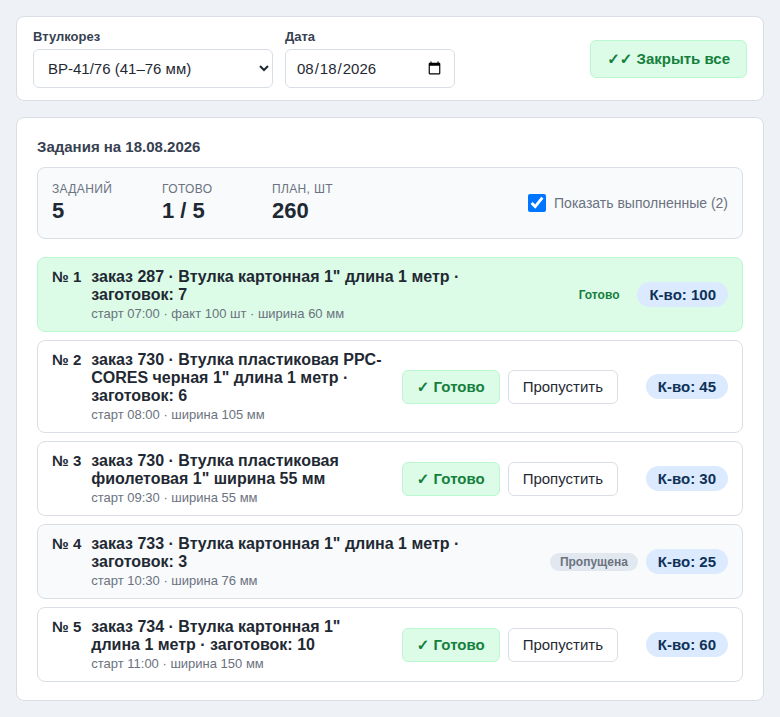
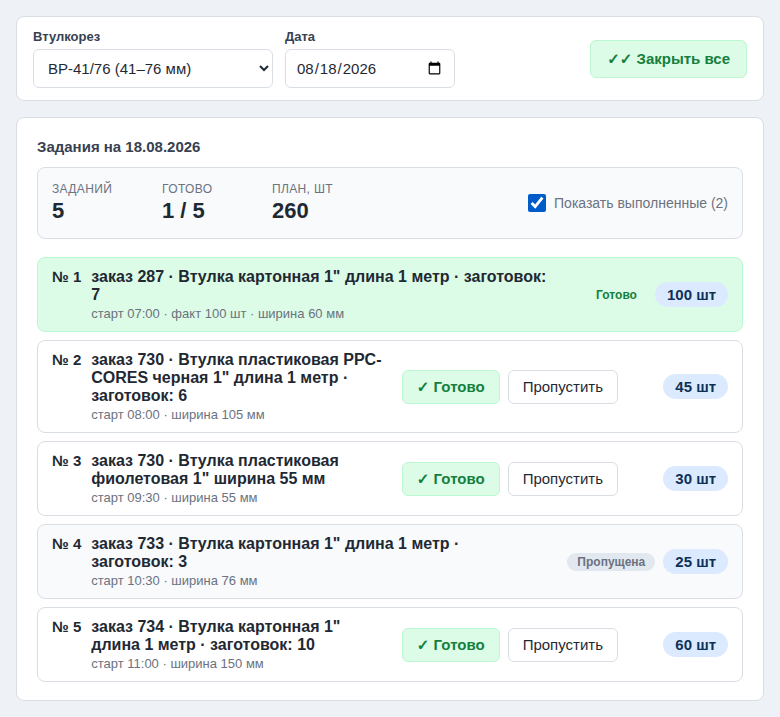
fix(atex-sc #4786): количество втулок на карточке — просто «110 шт», без подписи (#4792)
Продолжение #4788 (влит). По замечанию заказчика подпись «К-во:» с правого бейджа убрана —
там остаётся одно число со штуками: «110 шт». Подпись занимала место в узкой правой колонке,
а число на этом месте втулкорез читает и так.

Остальное не меняется: в главной строке «заготовок: N» (⌈план × ширина рулона × 1.1 / 1000⌉),
у закрытого задания бейдж «Готово»/«Пропущена» стои́т перед количеством, у готовой втулки
заготовок в строке нет.

Тесты проверяют разметку поведением: текст бейджа «900 шт», порядок пары («Пропущена»,
«900 шт»). 113 проверок файла, гейт репозитория 698/0. Скриншот документации переснят.

TEXT-ASSERT-OK: три проверки стилей смотрят текст `sleeve-cutter.css` — правило исполняет
браузер, которого в гейте нет (объявлено при заведении, #4788).

Vecmory-Session: 4435d65b-cab1-406c-abf9-abf6aa266e88

diff --git a/download/atex/js/sleeve-cutter.js b/download/atex/js/sleeve-cutter.js
@@ -785,9 +785,10 @@
         }
         card.appendChild(actions);
         // #4786 п.2/п.3: у ЖИВОГО задания бейджа статуса больше нет — состояние и так видно
-        // по кнопкам «Готово»/«Пропустить». Справа стои́т ПЛАНОВОЕ количество втулок
-        // («К-во»), а у закрытого задания перед ним — бейдж «Готово»/«Пропущена»: кнопок
-        // там нет, и иначе непонятно, чем оно кончилось.
+        // по кнопкам «Готово»/«Пропустить». Справа стои́т ПЛАНОВОЕ количество втулок — одним
+        // числом со «шт», без подписи: подпись занимала место, а число на этом месте
+        // втулкорез читает и так. У закрытого задания перед ним — бейдж «Готово»/«Пропущена»:
+        // кнопок там нет, и иначе непонятно, чем оно кончилось.
         var badges = el('div', { class: 'atex-sc-card-badges' });
         if (terminal) {
             badges.appendChild(el('span', {
@@ -801,7 +802,7 @@
                 class: 'atex-sc-badge atex-sc-badge-qty',
                 title: 'Запланировано втулок: ' + plan + ' шт'
                     + (sticks != null ? ' (метровых заготовок под них: ' + sticks + ')' : ''),
-                text: 'К-во: ' + plan
+                text: plan + ' шт'
             }));
         }
         if (badges.childNodes.length) card.appendChild(badges);

diff --git a/docs/atex_workplaces.md b/docs/atex_workplaces.md
@@ -652,21 +652,21 @@ API-операции и критерии приёмки.
   задания — две строки: сверху крупно **что режем** («заказ 730 · Втулка пластиковая
   PPC-CORES черная 1" длина 1 метр · заготовок: 6»), под ней мелким служебное («старт 08:00 ·
   факт · ширина рулона»); посередине кнопки **✓ Готово / Пропустить**, справа бейдж
-  **«К-во: 45»** — запланированное количество втулок. У закрытого задания кнопок нет (зелёный
-  фон — «Готово», серый — «Пропущена»), и бейдж статуса встаёт **перед** «К-во»: иначе
+  **«45 шт»** — запланированное количество втулок. У закрытого задания кнопок нет (зелёный
+  фон — «Готово», серый — «Пропущена»), и бейдж статуса встаёт **перед** количеством: иначе
   непонятно, чем оно кончилось. Когда закрыты все задания дня, на месте списка — приглашение
   включить показ выполненных.
 - **Что режем и сколько заготовок (#4786).** Заказ, название втулки и число метровых
   заготовок идут в главную строку карточки основным цветом 16px: их втулкорез читает с
   планшета стоя, а прежние приглушённые 14px не читались. Бейдж статуса **«В работе»/
   «Ожидает» снят** — состояние живого задания и так видно по кнопкам «Готово»/«Пропустить»;
-  справа вместо него **«К-во: N» — план втулок по заданию**. Втулку, у записи которой в
-  справочнике «Диаметр втулки» **снята галка «Готовые»**, режут из метровых палок, и в
-  главной строке стои́т **«заготовок: N»**, где
+  справа вместо него **«N шт» — план втулок по заданию** (одним числом, без подписи).
+  Втулку, у записи которой в справочнике «Диаметр втулки» **снята галка «Готовые»**, режут из
+  метровых палок, и в главной строке стои́т **«заготовок: N»**, где
   **N = ⌈план × ширина рулона × 1.1 / 1000⌉** (решение заказчика 18.08.2026: палка длиной
-  1000 мм режется по ширине рулона, 1.1 — запас на рез и брак; в подсказке «К-во» — сколько
-  под них заготовок). Втулка с галкой «Готовые» приходит нарезанной — у неё «заготовок» в
-  строке нет, план остаётся. Источник — колонки отчёта `order_no`, `sleeve`, `position_width`,
+  1000 мм режется по ширине рулона, 1.1 — запас на рез и брак; в подсказке количества —
+  сколько под них заготовок). Втулка с галкой «Готовые» приходит нарезанной — у неё
+  «заготовок» в строке нет, план остаётся. Источник — колонки отчёта `order_no`, `sleeve`, `position_width`,
   `sleeve_ready` (§14 в `integram-reports.md`). Колонок в отчёте нет → карточка показывает,
   что может, заготовки не считаются, и пульт называет недостающие колонки плашкой над списком.
 
